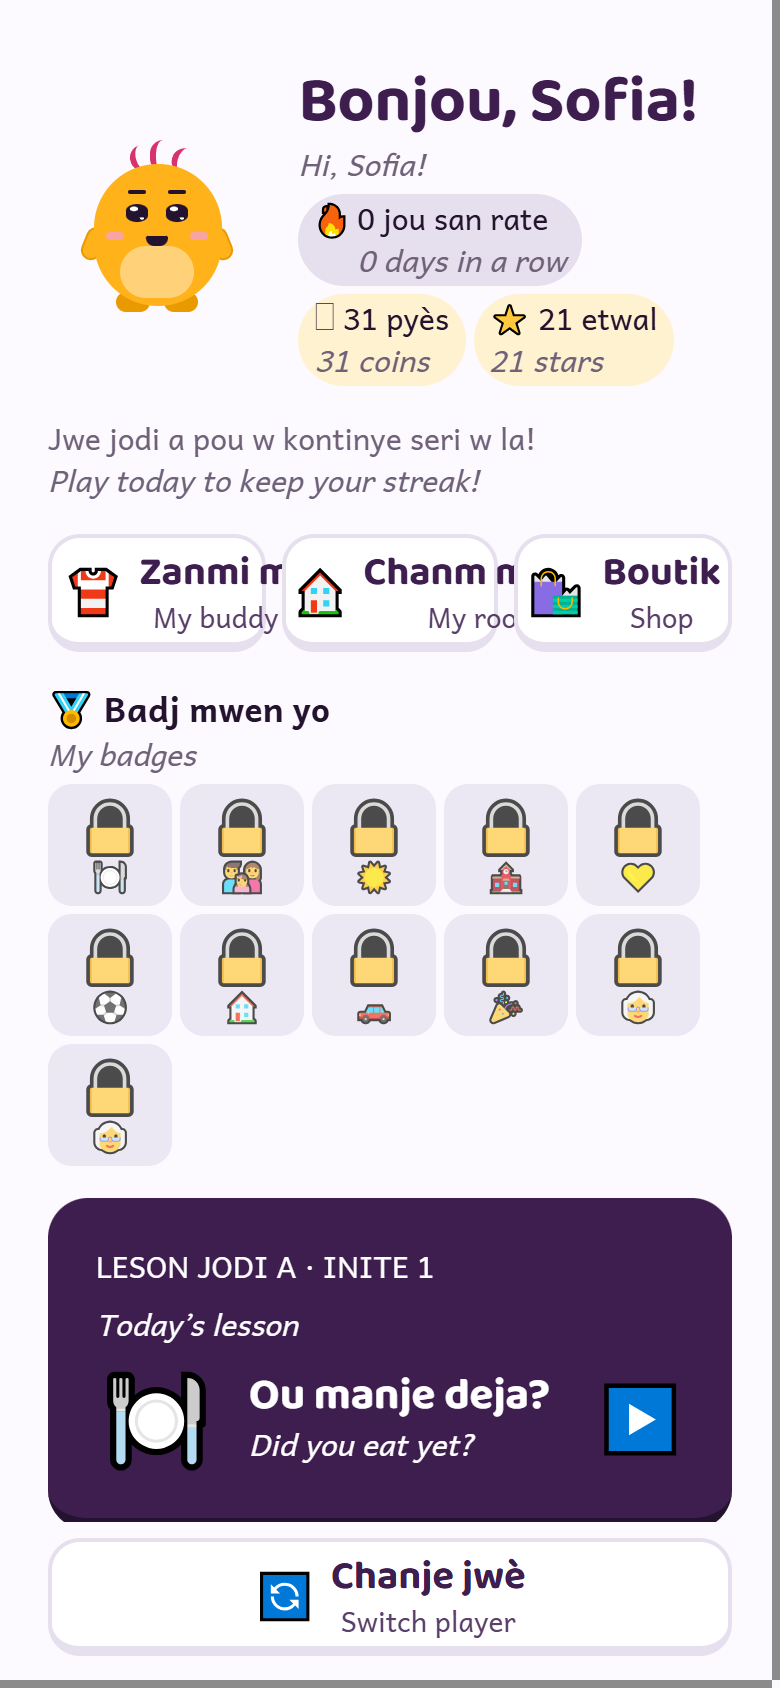
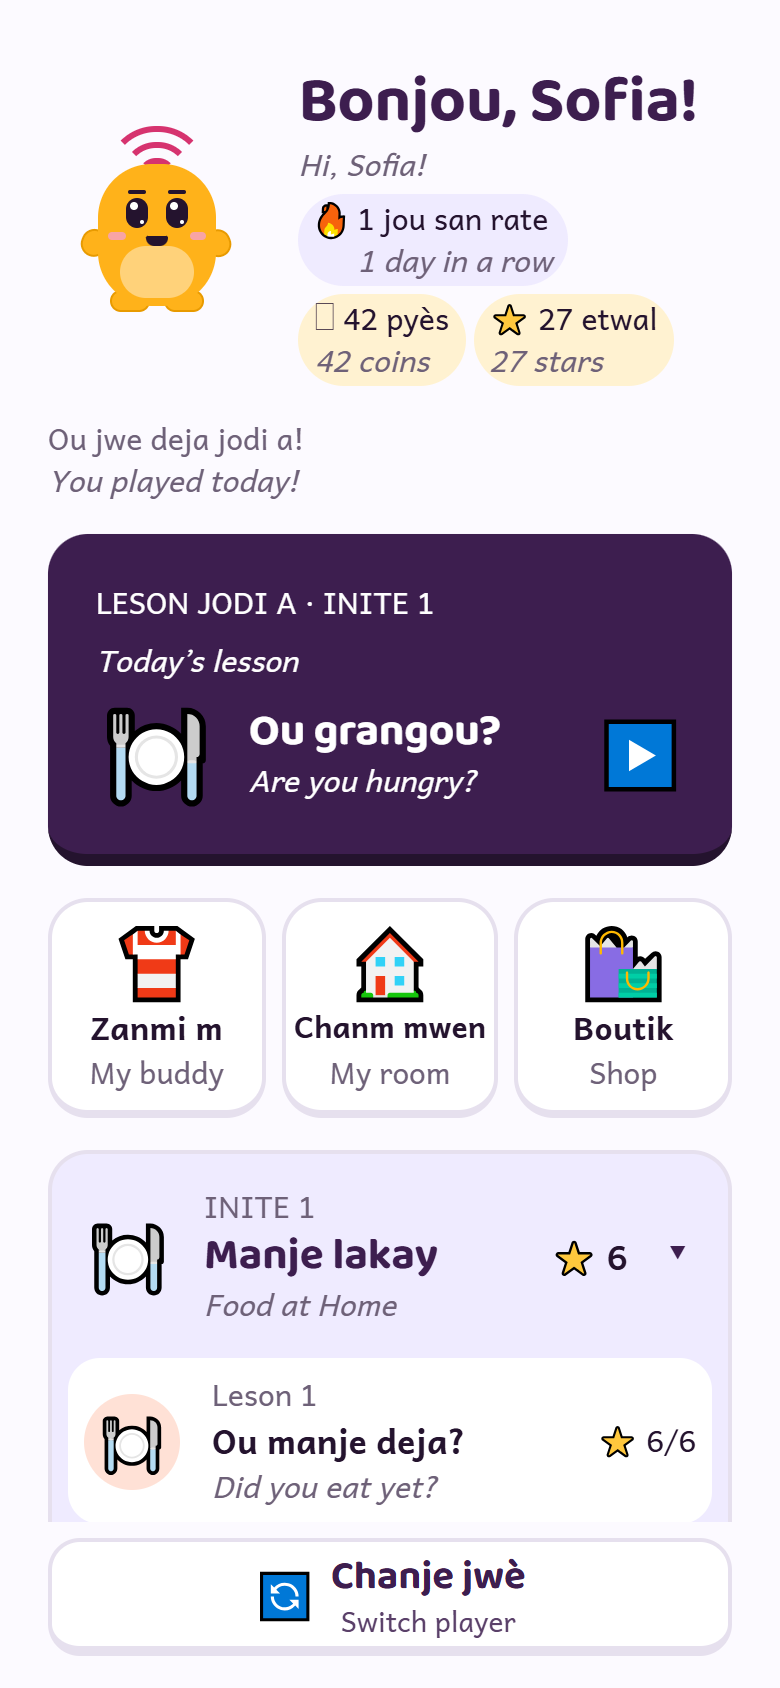
New Mo and app screenshots

diff --git a/es/index.html b/es/index.html
@@ -50,7 +50,7 @@
         <h2 id="see-title">Así se ve la app</h2>
         <div class="screens">
           <figure>
-            <img src="../assets/screens/lesson.png" alt="Una lección: Manman pregunta “Ou manje deja?” (¿Ya comiste?). Mo está junto al gran botón rosado del micrófono. Mantén presionado el botón y habla." width="390" height="844" loading="lazy">
+            <img src="../assets/screens/lesson.png" alt="Una lección: Grann pregunta “Ou grangou?” (¿Tienes hambre?). Mo está junto al gran botón rosado del micrófono. Mantén presionado el botón y habla." width="390" height="844" loading="lazy">
             <figcaption>Los niños contestan en voz alta con el micrófono.</figcaption>
           </figure>
           <figure>

diff --git a/index.html b/index.html
@@ -53,7 +53,7 @@
         <h2 id="see-title">See it in the app</h2>
         <div class="screens">
           <figure>
-            <img src="assets/screens/lesson.png" alt="A lesson: Manman asks “Ou manje deja?” (Did you eat yet?). Mo stands next to the big pink mic button. Hold the button and talk." width="390" height="844" loading="lazy">
+            <img src="assets/screens/lesson.png" alt="A lesson: Grann asks “Ou grangou?” (Are you hungry?). Mo stands next to the big pink mic button. Hold the button and talk." width="390" height="844" loading="lazy">
             <figcaption>Kids answer out loud by holding the mic.</figcaption>
           </figure>
           <figure>

diff --git a/ht/index.html b/ht/index.html
@@ -50,7 +50,7 @@
         <h2 id="see-title">Men aplikasyon an</h2>
         <div class="screens">
           <figure>
-            <img src="../assets/screens/lesson.png" alt="Yon leson: Manman mande “Ou manje deja?”. Mo kanpe bò gwo bouton woz mikwofòn nan. Peze bouton an epi pale." width="390" height="844" loading="lazy">
+            <img src="../assets/screens/lesson.png" alt="Yon leson: Grann mande “Ou grangou?”. Mo kanpe bò gwo bouton woz mikwofòn nan. Peze bouton an epi pale." width="390" height="844" loading="lazy">
             <figcaption>Timoun yo reponn byen fò ak mikwofòn nan.</figcaption>
           </figure>
           <figure>
